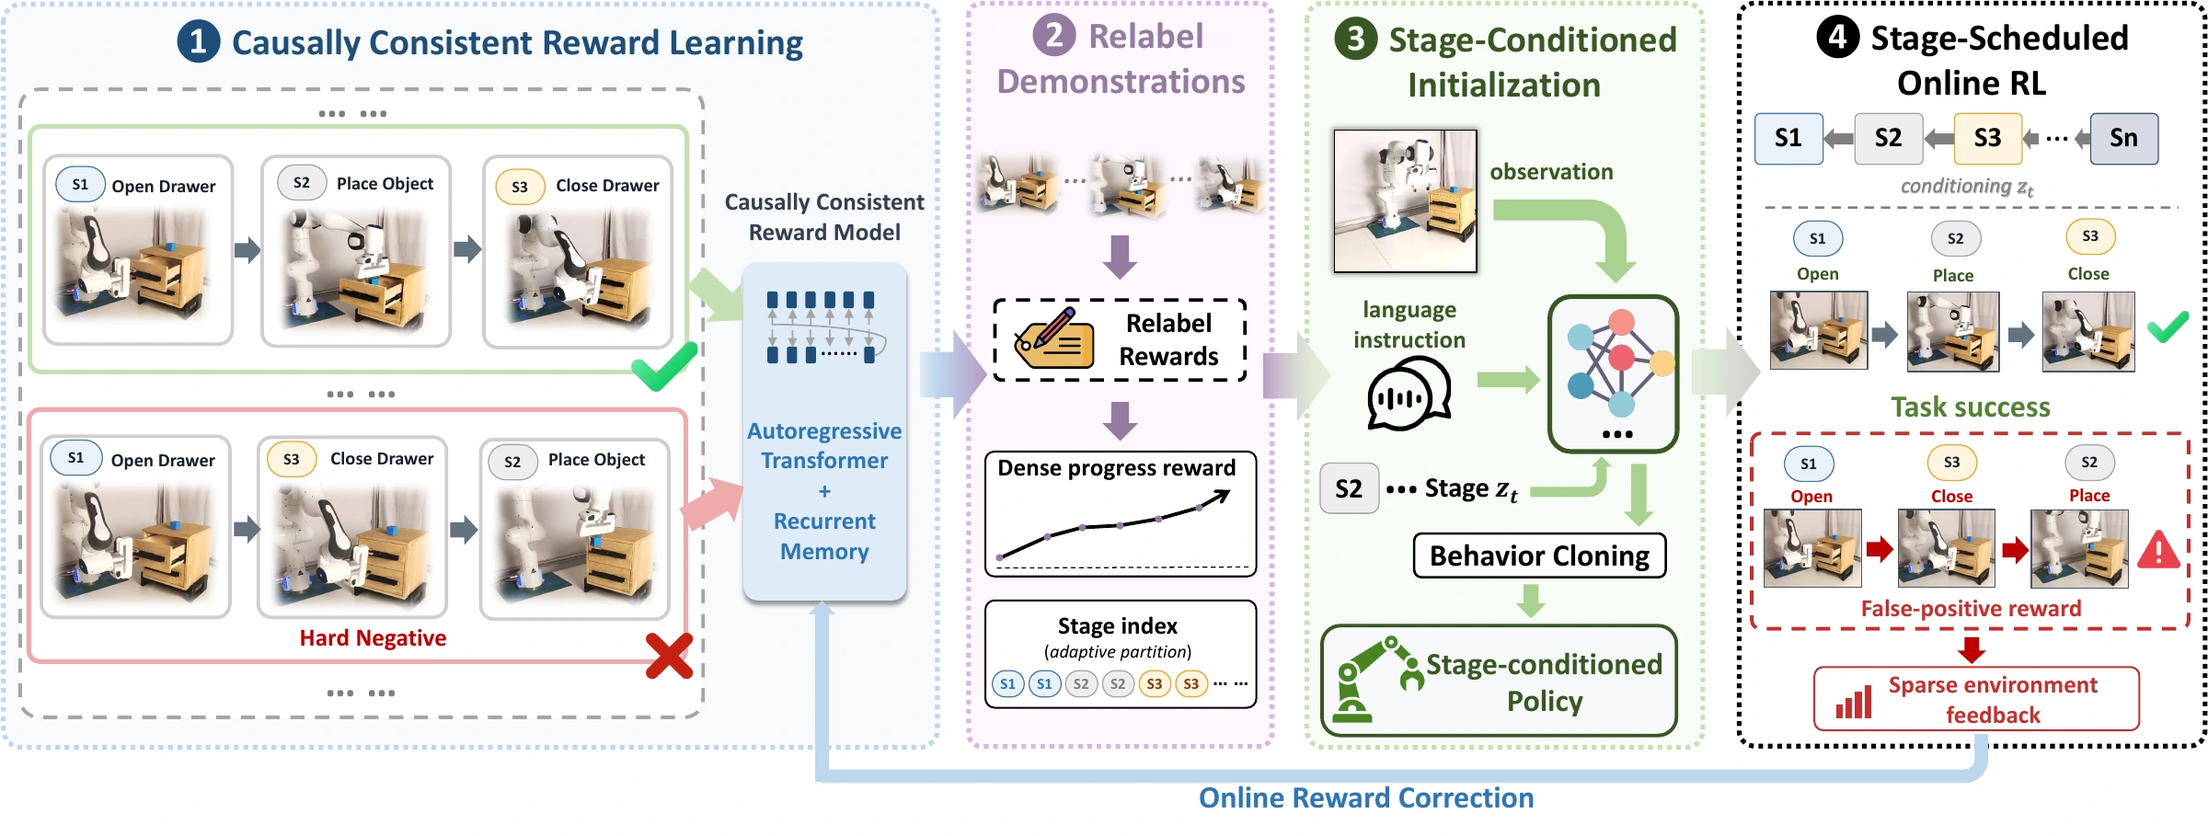
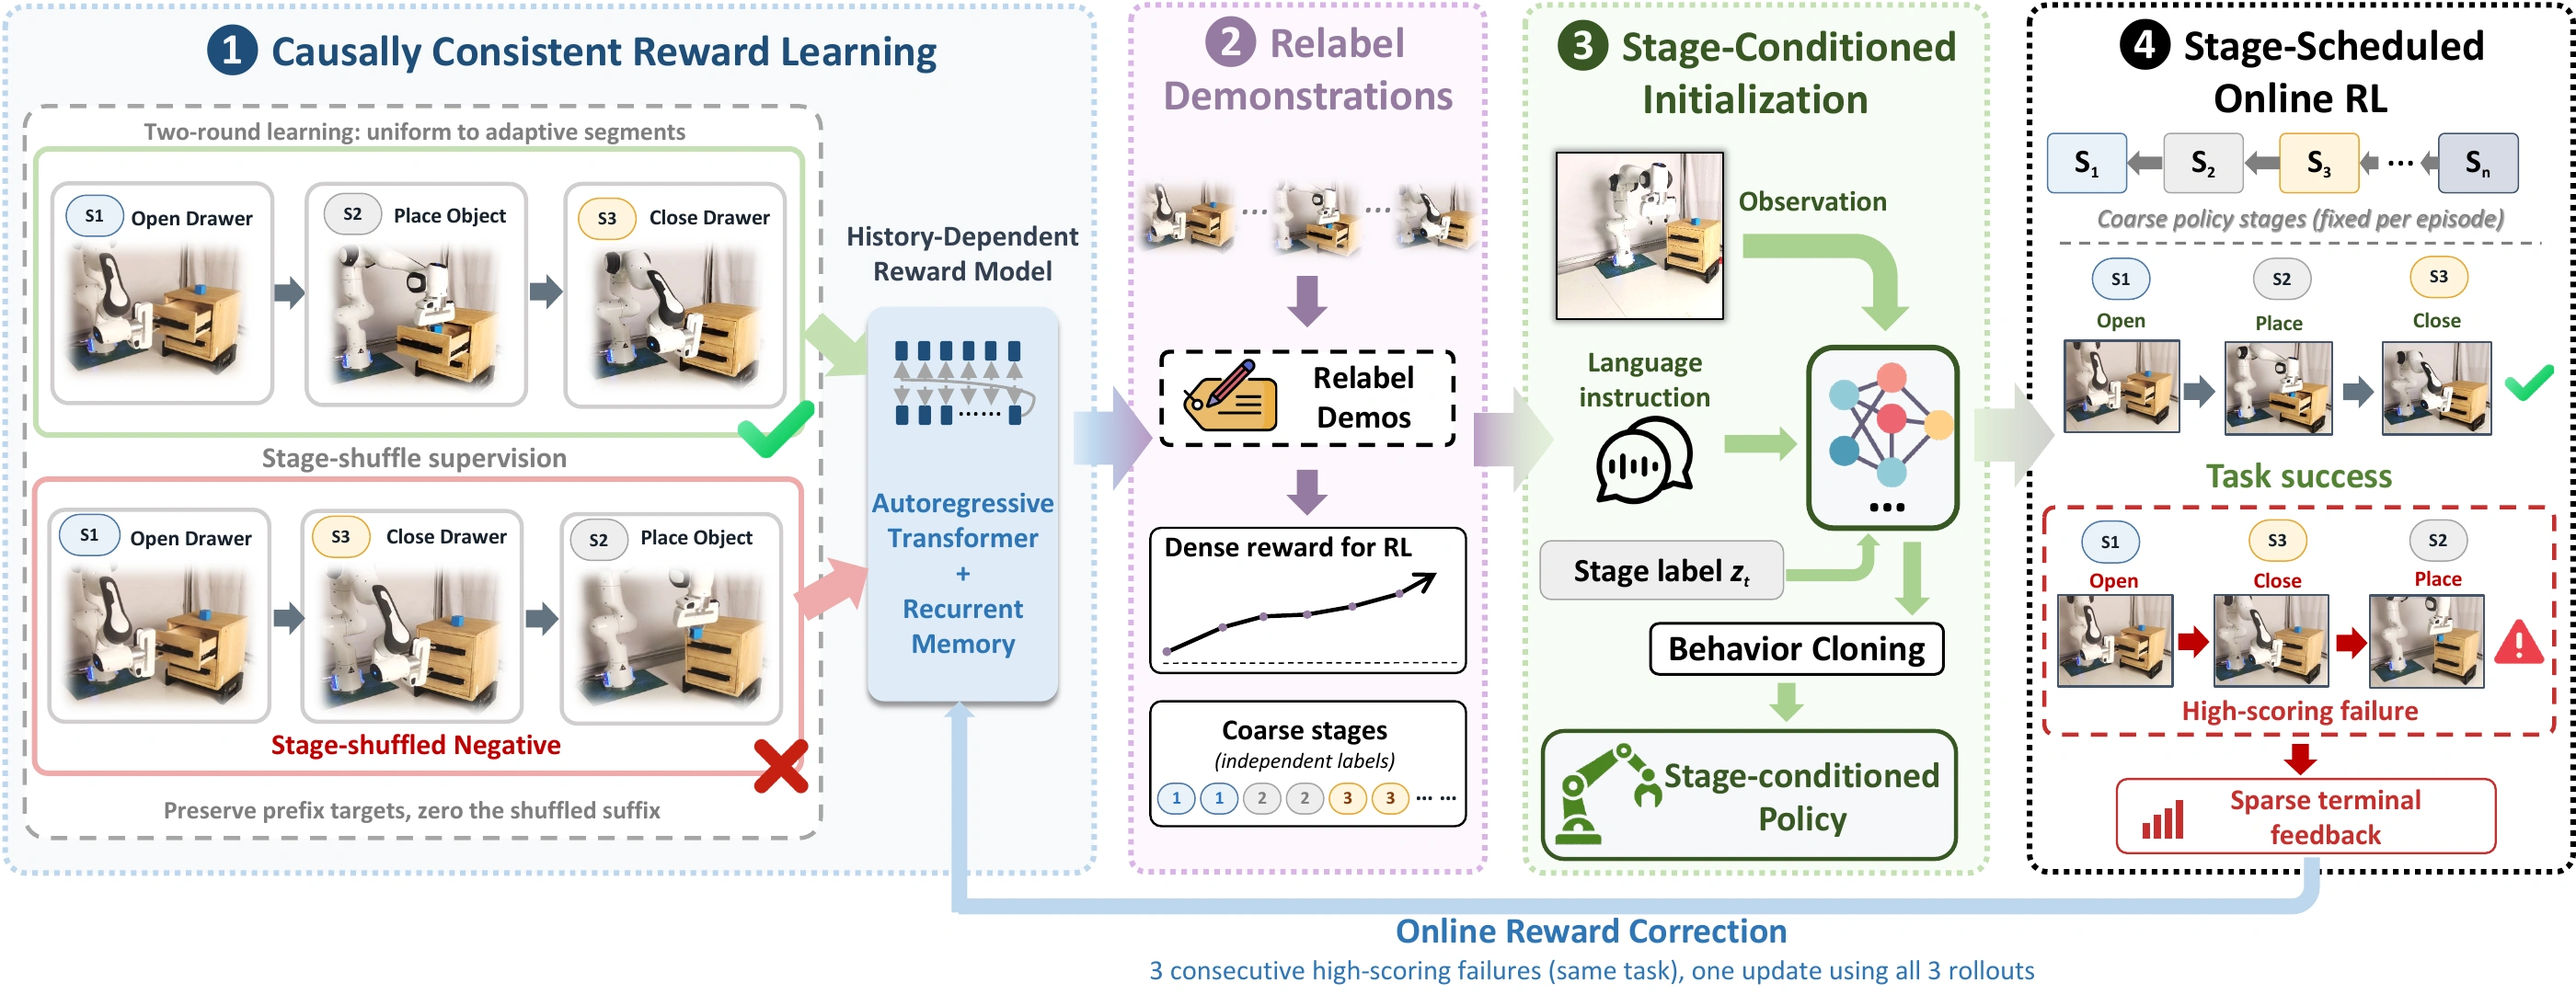
Replace figures 1 and 2 with latest Overleaf originals

diff --git a/index.html b/index.html
@@ -10,7 +10,7 @@
   <meta property="og:title" content="RoboLongR — Causally-Consistent Rewards">
   <meta property="og:description" content="Learning from execution history to improve long-horizon manipulation.">
   <meta property="og:type" content="website">
-  <meta property="og:image" content="https://robo-longr.github.io/assets/teaser.webp">
+  <meta property="og:image" content="https://robo-longr.github.io/assets/teaser.webp?v=20261011">
   <title>RoboLongR · Anonymous Research Project</title>
   <link rel="icon" href="assets/robolongr-icon.png" type="image/png">
   <link rel="apple-touch-icon" href="assets/robolongr-icon.png">
@@ -41,7 +41,7 @@
 <section class="project-video" id="video" aria-labelledby="video-title"><h2 id="video-title">RoboLongR in action</h2><video controls playsinline preload="metadata" poster="assets/real-tasks.webp" aria-label="RoboLongR project video"><source src="assets/robolongr-video.mp4" type="video/mp4">Your browser does not support embedded video. <a href="assets/robolongr-video.mp4">Download the video</a>.</video><p><a href="assets/robolongr-video.mp4" download>Download video ↗</a></p></section>
     <div class="hero-figure">
       <div class="figure-heading"><span>THE CENTRAL IDEA</span><span>Execution history matters</span></div>
-      <button class="image-button" data-zoom="assets/teaser.webp" data-caption="A goal-like closed drawer can hide an incomplete task. The reward curves in this schematic illustrate the intended behavior, not measured results." aria-label="Enlarge the reward ambiguity illustration"><img src="assets/teaser.webp" width="2200" height="1321" alt="Drawer example contrasting open-place-close with a reordered open-close-place sequence and schematic reward curves." fetchpriority="high"></button>
+      <button class="image-button" data-zoom="assets/teaser.webp?v=20261011" data-caption="Reward guidance beyond visual progress. A closed empty drawer can resemble success. Stage-order supervision and execution history encourage prerequisite-sensitive progress estimates. Curves show intended behavior; g1–g3 denote semantic subgoals." aria-label="Enlarge the reward ambiguity illustration"><img src="assets/teaser.webp?v=20261011" width="2200" height="1319" alt="Drawer task prerequisites and failed open-close-attempt-placement execution, contrasted with valid open-place-close execution and schematic reward responses." fetchpriority="high"></button>
       <p class="figure-note">Closing an empty drawer can resemble success. Reward learning should account for whether the object was placed inside. <span>Schematic curves illustrate the intended behavior.</span></p>
     </div>
     <div class="metric-strip" aria-label="Research at a glance">
@@ -56,7 +56,7 @@
   <section class="section tinted" id="method" aria-labelledby="method-title">
     <div class="wrap">
       <div class="section-top"><div><p class="eyebrow">02 / THE METHOD</p><h2 id="method-title">From demonstrations to better decisions.</h2></div><p class="section-intro">Order supervision shapes the reward.<br>Interaction tests and refines it.</p></div>
-      <figure class="pipeline"><button class="image-button" data-zoom="assets/pipeline.webp" data-caption="RoboLongR: stage-order reward supervision, demonstration relabeling, stage-conditioned initialization, scheduled online RL, and feedback-driven reward correction." aria-label="Enlarge the RoboLongR pipeline"><img src="assets/pipeline.webp" width="2400" height="909" loading="lazy" alt="RoboLongR pipeline showing reward learning, demonstration relabeling, behavior cloning, online RL, and reward correction."></button><figcaption>Adaptive segments construct reward-training perturbations. Separate coarse stages provide consistent policy conditioning.</figcaption></figure>
+      <figure class="pipeline"><button class="image-button" data-zoom="assets/pipeline.webp?v=20261011" data-caption="RoboLongR learns rewards to guide downstream policy adaptation. Reward-adaptive stage-shuffle provides order supervision. Coarse stages condition behavior cloning and online RL, while sparse terminal feedback triggers correction for repeated high-scoring failures." aria-label="Enlarge the RoboLongR pipeline"><img src="assets/pipeline.webp?v=20261011" width="2800" height="1094" loading="lazy" alt="RoboLongR pipeline showing reward learning, demonstration relabeling, behavior cloning, online RL, and reward correction."></button><figcaption>Adaptive segments construct reward-training perturbations. Separate coarse stages provide consistent policy conditioning.</figcaption></figure>
       <ol class="method-steps">
         <li><span class="step-number">01</span><h3>Supervise execution order</h3><p>Reorder intact demonstration segments to create synthetic negatives. Order-preserving splices discourage indiscriminate cut detection.</p></li>
         <li><span class="step-number">02</span><h3>Remember prior observations</h3><p>A recurrent reward model carries information across temporal windows. A second training round adapts segmentation to predicted progress.</p></li>
